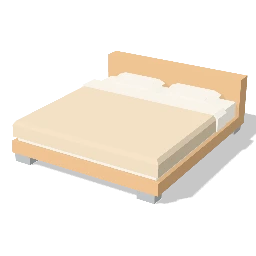
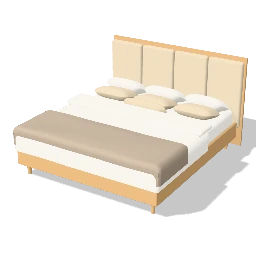
Premium beds: soft draped duvet, slatted headboard, storage base and a bunk bed
The duvet and the throw are now draped sheets that roll over the sides and the foot, with a gentle puff and creases; a lumbar cushion joins the pillows. New options: a slatted timber headboard and a storage base with two drawers a side (single and double beds use them). The bunk bed is a premium model: square posts, slatted bases, guard rails, a ladder in the foot end, mattresses, pillows and duvets.

diff --git a/packages/catalog/src/premium/beds.ts b/packages/catalog/src/premium/beds.ts
@@ -5,36 +5,106 @@
 import type { CatalogEntry, FinishSlot } from '@interio/core';
 import type * as THREE from 'three';
 import { Model, box, cushion, cyl, param, pillow, rbox, turn, type BuildContext } from './kit';
+import { surface, twoSided, type G } from './decor.parts';
 
 /** Finish slots shared by every bed. */
 export const BED_SLOTS: FinishSlot[] = [
   { id: 'frame', label: 'Frame', kind: 'wood', default: 'wood.oak' },
-  { id: 'headboard', label: 'Headboard', kind: 'fabric', default: 'fabric.linen.sand' },
+  { id: 'headboard', label: 'Headboard and cushions', kind: 'fabric', default: 'fabric.linen.sand' },
   { id: 'bedding', label: 'Bedding', kind: 'fabric', default: 'fabric.cotton.white' },
   { id: 'throw', label: 'Throw', kind: 'fabric', default: 'fabric.linen.taupe' },
 ];
 
+/** Bunk beds: an oak frame, white linen and coloured duvets. */
+export const BUNK_SLOTS: FinishSlot[] = [
+  { id: 'frame', label: 'Frame', kind: 'wood', default: 'wood.oak' },
+  { id: 'bedding', label: 'Mattresses and pillows', kind: 'fabric', default: 'fabric.cotton.white' },
+  { id: 'throw', label: 'Duvets', kind: 'fabric', default: 'fabric.cotton.sky' },
+];
+
 /**
- * A made bed: frame on legs or a plinth, upholstered or timber headboard,
- * mattress, pillows, a duvet folded back at the head and a throw across the
- * foot. The headboard stands at the back (-Z), the foot of the bed faces +Z.
+ * A duvet laid over a mattress: flat and gently puffed on top, rolling over the
+ * sides and the foot and hanging down to `hem` (a height). `x` across is
+ * ±w/2, the length runs from z0 (head end, folded back separately) to z1 (foot).
+ */
+export function duvet(w: number, z0: number, z1: number, top: number, hem: number, puff = 0.035, roll = 0.06): G {
+  const drop = top - hem;
+  const path = (len: number) => {
+    // Distance along the cross-section: drape, roll, flat, roll, drape.
+    const arc = (Math.PI / 2) * roll;
+    const flat = Math.max(0.01, len - 2 * roll);
+    const side = Math.max(0, drop - roll);
+    const total = 2 * (side + arc) + flat;
+    return (u: number): [number, number, number] => {
+      // Returns [offset across, drop below top, 0..1 how far onto the flat top].
+      let s = u * total;
+      const sign = s < total / 2 ? -1 : 1;
+      if (sign > 0) s = total - s;
+      if (s < side) return [sign * (len / 2), drop - s, 0];
+      s -= side;
+      if (s < arc) {
+        const a = s / roll; // 0 at the vertical, pi/2 at the top
+        return [sign * (len / 2 - roll + roll * Math.cos(a)), roll - roll * Math.sin(a), 0];
+      }
+      s -= arc;
+      return [sign * (flat / 2 - s), 0, 1 - Math.abs(flat / 2 - s) / (flat / 2)];
+    };
+  };
+  const across = path(w);
+  // Along the length only the foot rolls over.
+  const lenFlat = z1 - z0 - roll;
+  const arcL = (Math.PI / 2) * roll;
+  const sideL = Math.max(0, drop - roll);
+  const totalL = lenFlat + arcL + sideL;
+  const along = (v: number): [number, number, number] => {
+    let s = v * totalL;
+    if (s < lenFlat) return [z0 + s, 0, Math.min(1, s / 0.15, (lenFlat - s) / 0.25 + 0.2)];
+    s -= lenFlat;
+    if (s < arcL) {
+      const a = s / roll;
+      return [z0 + lenFlat + roll * Math.sin(a), roll - roll * Math.cos(a), 0];
+    }
+    s -= arcL;
+    return [z1, roll + s, 0];
+  };
+  const sheet = surface(34, 30, (u, v) => {
+    const [x, dx, fx] = across(u);
+    const [z, dz, fz] = along(v);
+    const dome = puff * Math.sin((Math.PI / 2) * fx) * Math.min(1, fz * 1.5);
+    // Soft creases running from the sides.
+    const crease = 0.006 * Math.sin(z * 9 + x * 3) * Math.sin(Math.PI * Math.min(1, fx * 1.3));
+    const y = top - dx - dz + dome + crease;
+    // Corners: where the sides and the foot both hang, pull in a little.
+    const pinch = dx > 0.02 && dz > 0.02 ? 0.97 : 1;
+    return [x * pinch, Math.max(hem, y), z];
+  });
+  return twoSided(sheet);
+}
+
+/**
+ * A made bed: frame on legs, a plinth or a storage base, upholstered, panel or
+ * slatted timber headboard, mattress, pillows and a lumbar cushion, a duvet
+ * rolling softly over the sides and the foot, folded back at the head, and a
+ * throw across the foot. The headboard stands at the back (-Z), the foot of the
+ * bed faces +Z.
  *
- * Params: `headboard` 'upholstered' | 'panel' (default upholstered), `pillows`
- * across (default: 1 below 1.2 m wide, else 2), `rows` of pillows (default 2
- * from 1.4 m wide), `base` 'legs' | 'plinth' (default legs), `throw` (default true).
+ * Params: `headboard` 'upholstered' | 'panel' | 'slats' (default upholstered),
+ * `pillows` across (default: 1 below 1.2 m wide, else 2), `rows` of pillows
+ * (default 2 from 1.4 m wide), `base` 'legs' | 'plinth' | 'storage' (default
+ * legs; storage has two drawers a side), `throw` (default true).
  */
 export function buildBed(entry: CatalogEntry, ctx?: BuildContext): THREE.Object3D {
   const m = new Model(entry, ctx);
   const { W, D, H } = m;
-  const headboard = param<'upholstered' | 'panel'>(entry, 'headboard', 'upholstered');
+  const headboard = param<'upholstered' | 'panel' | 'slats'>(entry, 'headboard', 'upholstered');
   const across = param(entry, 'pillows', W < 1.2 ? 1 : 2);
   const rows = param(entry, 'rows', W >= 1.4 ? 2 : 1);
-  const base = param<'legs' | 'plinth'>(entry, 'base', 'legs');
+  const base = param<'legs' | 'plinth' | 'storage'>(entry, 'base', 'legs');
   const hasThrow = param(entry, 'throw', true);
 
-  const headT = headboard === 'upholstered' ? 0.11 : 0.05; // headboard thickness
-  const legH = base === 'legs' ? 0.14 : 0.06;
-  const railH = 0.2;
+  const headT = headboard === 'upholstered' ? 0.11 : headboard === 'slats' ? 0.07 : 0.05; // headboard thickness
+  const legH = base === 'legs' ? 0.14 : 0.04;
+  const railH = base === 'storage' ? 0.3 : 0.2;
   const railT = 0.035;
   const frameTop = legH + railH;
   // The bedding hangs over the frame, so the frame is narrower and shorter than the overall size.
@@ -57,6 +127,18 @@ export function buildBed(entry: CatalogEntry, ctx?: BuildContext): THREE.Object3
   } else {
     m.fixed('lacquer.graphite', box(FW - 0.12, legH, bedLen - 0.12, 0, 0, zMid));
   }
+  if (base === 'storage') {
+    // Two drawers a side, set in the side rails, with a finger groove along their top.
+    const dl = Math.min(0.8, (bedLen - 0.3) / 2);
+    const dh = railH - 0.08;
+    for (const sx of [-1, 1]) {
+      for (const k of [-1, 1]) {
+        const z = zMid + k * (dl / 2 + 0.02);
+        m.part('frame', rbox(0.016, dh, dl, 0.003, sx * (FW / 2 + 0.008), legH + 0.03, z, 1));
+        m.fixed('lacquer.graphite', box(0.004, 0.012, dl * 0.9, sx * (FW / 2 + 0.014), legH + 0.03 + dh - 0.022, z));
+      }
+    }
+  }
 
   // Headboard.
   if (headboard === 'upholstered') {
@@ -68,6 +150,13 @@ export function buildBed(entry: CatalogEntry, ctx?: BuildContext): THREE.Object3
       // Vertical channels, a touch lower than the backing board so its edge frames them.
       m.part('headboard', rbox(cw - 0.012, padH - 0.02, headT - 0.03, 0.03, -(W - 0.02) / 2 + cw * (i + 0.5), frameTop - 0.08, back + 0.03 + (headT - 0.03) / 2, 5));
     }
+  } else if (headboard === 'slats') {
+    // Timber slats with shadow gaps in front of a dark backing panel, capped by a rail.
+    m.fixed('lacquer.graphite', rbox(W - 0.06, H - 0.08, 0.012, 0.003, 0, 0.04, back + 0.006, 1));
+    const n = Math.max(6, Math.round(W / 0.055));
+    const pitch = W / n;
+    for (let i = 0; i < n; i++) m.part('frame', rbox(pitch - 0.012, H - 0.03, headT - 0.025, 0.004, -W / 2 + pitch * (i + 0.5), 0, back + 0.012 + (headT - 0.025) / 2, 2));
+    m.part('frame', rbox(W, 0.03, headT, 0.006, 0, H - 0.03, back + headT / 2, 2));
   } else {
     m.part('frame', rbox(W, H, headT, 0.012, 0, 0, back + headT / 2));
   }
@@ -91,25 +180,86 @@ export function buildBed(entry: CatalogEntry, ctx?: BuildContext): THREE.Object3
       m.part(r === rows - 1 && rows > 1 ? 'headboard' : 'bedding', turn(g, r === 0 ? -0.5 : -0.28, 0, 0, x, top, z));
     }
   }
+  // A lumbar cushion in front of the pillows.
+  const lw = Math.min(0.6, mattW * 0.42);
+  const lz = bedBack + 0.2 + rows * 0.26 + 0.02;
+  m.part('headboard', turn(pillow(lw, 0.12, 0.3, 0, top + 0.01, lz), -1.2, 0, 0, 0, top, lz));
 
-  // Duvet: over the lower two thirds, hanging a little over the sides and the foot, folded back at the head.
+  // Duvet: over the lower two thirds, rolling over the sides and the foot, folded back at the head.
   const duvetStart = bedBack + 0.2 + rows * 0.27;
-  const duvetLen = D / 2 - duvetStart;
   const duvetW = FW + 0.04;
-  m.part('bedding', cushion(duvetW, 0.1, duvetLen, 0, top - 0.035, duvetStart + duvetLen / 2, 0.35, 0.045));
-  m.part('bedding', rbox(duvetW - 0.02, 0.085, 0.3, 0.04, 0, top + 0.035, duvetStart + 0.15, 5));
-  // The duvet's sides drape over the edge of the mattress.
-  for (const sx of [-1, 1]) m.part('bedding', rbox(0.045, mattH * 0.75, duvetLen - 0.06, 0.02, sx * (duvetW / 2 - 0.02), top - mattH * 0.72, duvetStart + duvetLen / 2));
+  const hem = Math.max(legH + 0.04, top - mattH * 0.85);
+  m.part('bedding', duvet(duvetW, duvetStart + 0.12, D / 2, top + 0.035, hem, 0.04, 0.06));
+  m.part('bedding', cushion(duvetW - 0.02, 0.07, 0.3, 0, top + 0.02, duvetStart + 0.15, 0.4, 0.035));
 
-  // Throw across the foot.
+  // Throw across the foot, draped over the duvet.
   if (hasThrow) {
-    const tz = D / 2 - 0.42;
-    m.part('throw', cushion(W - 0.03, 0.035, 0.5, 0, top + 0.075, tz, 0.5, 0.016));
-    for (const sx of [-1, 1]) m.part('throw', rbox(0.03, mattH * 0.85, 0.5, 0.012, sx * (W / 2 - 0.015), top - mattH * 0.75, tz));
+    const tz0 = D / 2 - 0.62;
+    m.part('throw', duvet(W, tz0, D / 2 - 0.005, top + 0.085, top - mattH * 0.55, 0.012, 0.05));
   }
 
   return m.build();
 }
 
+/**
+ * Bunk bed: two beds on four square posts, guard rails all round the top bunk,
+ * a ladder built into the foot end, slatted head ends. Each bunk has a
+ * mattress, a pillow and a duvet. Head at -Z, ladder at the foot (+Z).
+ */
+export function buildBunk(entry: CatalogEntry, ctx?: BuildContext): THREE.Object3D {
+  const m = new Model(entry, ctx);
+  const { W, D, H } = m;
+  const post = Math.min(0.06, W * 0.06);
+  const r = 0.008;
+  const xP = W / 2 - post / 2;
+  const zP = D / 2 - post / 2;
+  for (const sx of [-1, 1]) for (const sz of [-1, 1]) m.part('frame', rbox(post, H, post, r, sx * xP, 0, sz * zP, 2));
+  const levels = [Math.min(0.22, H * 0.14), H * 0.6];
+  const railH = 0.14;
+  const railT = 0.03;
+  const innerW = W - 2 * post;
+  const innerD = D - 2 * post;
+  for (const y of levels) {
+    for (const sx of [-1, 1]) m.part('frame', rbox(railT, railH, innerD + 0.01, 0.006, sx * (W / 2 - railT / 2 - 0.006), y, 0, 2));
+    for (const sz of [-1, 1]) m.part('frame', rbox(innerW + 0.01, railH, railT, 0.006, 0, y, sz * (D / 2 - railT / 2 - 0.006), 2));
+    // Slatted base.
+    const n = Math.round(innerD / 0.12);
+    for (let i = 0; i < n; i++) m.part('frame', box(innerW - 0.02, 0.018, 0.07, 0, y + 0.03, -innerD / 2 + (i + 0.5) * (innerD / n)));
+    // Mattress, pillow, duvet.
+    const mt = 0.16;
+    const my = y + 0.048;
+    const mw = innerW - 0.02;
+    const ml = innerD - 0.02;
+    m.part('bedding', rbox(mw, mt, ml, 0.045, 0, my, 0, 4));
+    const top = my + mt;
+    const pz = -ml / 2 + 0.22;
+    m.part('bedding', turn(pillow(Math.min(0.62, mw - 0.12), 0.15, 0.42, 0, top - 0.02, pz), -0.45, 0, 0, 0, top, pz));
+    m.part('throw', duvet(mw + 0.02, -ml / 2 + 0.55, ml / 2 + 0.01, top + 0.03, top - mt * 0.7, 0.03, 0.05));
+    m.part('throw', cushion(mw, 0.06, 0.24, 0, top + 0.004, -ml / 2 + 0.6, 0.4, 0.03));
+  }
+  // Guard rails on the top bunk: two rails on each long side and at the head.
+  const gy = [levels[1]! + railH + 0.14, levels[1]! + railH + 0.3];
+  for (const y of gy) {
+    if (y + 0.05 > H) continue;
+    for (const sx of [-1, 1]) m.part('frame', rbox(railT, 0.05, innerD + 0.01, 0.006, sx * (W / 2 - railT / 2 - 0.006), y, 0, 2));
+    m.part('frame', rbox(innerW + 0.01, 0.05, railT, 0.006, 0, y, -(D / 2 - railT / 2 - 0.006), 2));
+  }
+  // Head end: vertical slats between the bunks and above the top one.
+  const slats = Math.max(3, Math.round(innerW / 0.14));
+  for (let i = 0; i < slats; i++) {
+    const x = -innerW / 2 + (i + 0.5) * (innerW / slats);
+    m.part('frame', rbox(0.04, levels[1]! - levels[0]! - railH - 0.42, 0.02, 0.004, x, levels[0]! + railH + 0.42, -(D / 2 - 0.016), 1));
+  }
+  // Ladder at the foot: two stiles set inside the posts and round rungs.
+  const lx0 = innerW / 2 - 0.36;
+  const lx1 = innerW / 2 - 0.02;
+  const lz = D / 2 - 0.02;
+  for (const x of [lx0, lx1]) m.part('frame', rbox(0.035, H - levels[0]! - 0.02, 0.03, 0.006, x, levels[0]!, lz - 0.003, 2));
+  for (let y = levels[0]! + railH + 0.12; y < levels[1]! + railH + 0.3 && y < H - 0.05; y += 0.27) m.part('frame', cyl(0.014, 0.014, lx1 - lx0, (lx0 + lx1) / 2, y, lz, 'x', 12));
+  // A rail across the foot of the top bunk beside the ladder.
+  for (const y of gy) if (y + 0.05 <= H) m.part('frame', rbox(lx0 - (-innerW / 2) - 0.02, 0.05, railT, 0.006, (-innerW / 2 + lx0) / 2 - 0.01, y, D / 2 - railT / 2 - 0.006, 2));
+  return m.build();
+}
+
 /** Generators of this family, registered by `premium/index.ts`. */
-export const BED_GENERATORS = { bed: buildBed } as const;
+export const BED_GENERATORS = { bed: buildBed, bedBunk: buildBunk } as const;

diff --git a/packages/catalog/src/entries/beds.ts b/packages/catalog/src/entries/beds.ts
@@ -1,12 +1,12 @@
 /** Catalog entries: beds. Ids are stable: saved projects reference them. */
 import type { CatalogEntry } from '@interio/core';
-import { BED_SLOTS } from '../premium/beds';
-import { gen, glb } from './helpers';
+import { BED_SLOTS, BUNK_SLOTS } from '../premium/beds';
+import { gen } from './helpers';
 
 export const BEDS_ENTRIES: CatalogEntry[] = [
-  gen('bed.single', 'Single bed', 'beds', ['bedroom'], 'bed', [1000, 2080, 1000], ['bed', 'twin', 'kids', 'guest'], { slots: BED_SLOTS, params: { rows: 1 } }),
-  gen('bed.double', 'Double bed', 'beds', ['bedroom'], 'bed', [1450, 2080, 1050], ['bed', 'full'], { slots: BED_SLOTS }),
+  gen('bed.single', 'Single bed', 'beds', ['bedroom'], 'bed', [1000, 2080, 1000], ['bed', 'twin', 'kids', 'guest'], { slots: BED_SLOTS, params: { rows: 1, headboard: 'slats' } }),
+  gen('bed.double', 'Double bed', 'beds', ['bedroom'], 'bed', [1450, 2080, 1050], ['bed', 'full'], { slots: BED_SLOTS, params: { base: 'storage' } }),
   gen('bed.queen', 'Queen bed', 'beds', ['bedroom'], 'bed', [1650, 2130, 1100], ['bed', 'queen', 'master'], { slots: BED_SLOTS }),
   gen('bed.king', 'King bed', 'beds', ['bedroom'], 'bed', [1900, 2130, 1150], ['bed', 'king', 'master'], { slots: BED_SLOTS, params: { pillows: 3 } }),
-  glb('bed.bunk', 'Bunk bed', 'beds', ['bedroom'], 'bed-bunk', ['bed', 'kids', 'twin']),
+  gen('bed.bunk', 'Bunk bed', 'beds', ['bedroom'], 'bedBunk', [1000, 2000, 1600], ['bed', 'kids', 'twin'], { slots: BUNK_SLOTS }),
 ];
